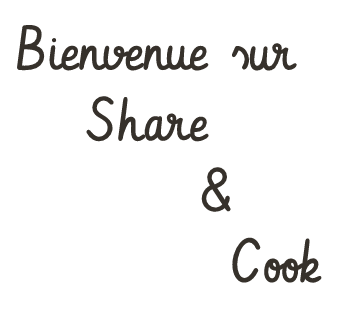
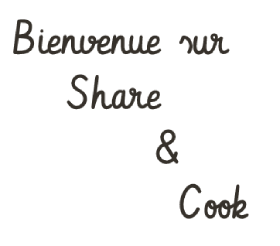
update site

diff --git a/Public/css/style.css b/Public/css/style.css
@@ -2,3 +2,25 @@
     background-color: #ff735c;
     border-color: #f8f9fa
 }
+
+.btn-primary:hover{
+    background-color: #f5573d;
+    border-color: #f8f9fa
+}
+
+.logo{
+    width: 110px;
+}
+
+.img-header-left{
+    padding-left: 120px;
+}
+
+.img-recipe{
+        max-width: 60%;
+}
+
+hr{
+    margin-left: 30%;
+    margin-right: 30%;
+}

diff --git a/Views/spaceAdmin.php b/Views/spaceAdmin.php
@@ -1,0 +1,56 @@
+<?php require('header.php') ?>
+
+<h2 class="text-center">Espace administrateur</h2>
+
+<div class="container">
+    <div class="row">
+        <div class="col-12">
+            <form action="?action=addRecipe" method="post">
+                <div class="pt-2">
+                    <label for="title" class="form-label">Titre</label><br />
+                    <input type="text" id="title" name="title" class="form-control" required />
+                </div>
+                <div class="pt-2">
+                    <label for="description" class="form-label">Description</label><br />
+                    <textarea id="description" name="description" class="form-control" required></textarea>
+                </div>
+                <div class="pt-2">
+                    <label for="description" class="form-label">URL de l'image</label><br />
+                    <input type="text" id="description" name="image" class="form-control" required></input>
+                </div>
+                <div class="pt-2">
+                    <button type="submit" class="btn btn-warning mt-2">Créer une nouvelle recette</button>
+                </div>
+            </form>
+
+        </div>
+    </div>
+
+    <div class="row d-flex justify-content-center mt-4">
+        <h3 class="text-center my-5"> Gestion des recettes créées</h3>
+
+        <?php
+        while ($data = $recipes->fetch()) {
+
+        ?>
+            <div class="col-3 mx-4 my-3">
+                <!-- Cartes de recettes -->
+                <div class="card" style="width: 18rem;">
+                    <img src="<?= $data['image'] ?>" class="card-img-top img-fluid" alt="...">
+                    <div class="text-center py-3">
+                        <h5 class="card-title pb-2"> <?= utf8_encode($data['title']); ?></h5>
+                        <p class="fst-italic"><?= ($data['creation_date_fr']); ?></p>
+                        <a href="index.php?action=recipe&amp;id=<?= $data['id'] ?>" class="btn btn-primary btn-card my-1">Voir la recette</a>
+                        <a href="index.php?action=deleteRecipe&amp;id=<?= $data['id'] ?>" class="btn btn-primary btn-card  my-1">Supprimer</a>
+                        <a href="index.php?action=displayUpdateRecipe&amp;id=<?= $data['id'] ?>" class="btn btn-primary btn-card  my-1">Modifier</a>
+                    </div>
+                </div>
+            </div>
+        <?php
+        }
+        $recipes->closeCursor();
+        ?>
+    </div>
+</div>
+
+<?php require('footer.php') ?>

diff --git a/Views/header.php b/Views/header.php
@@ -7,7 +7,7 @@
   <meta name="viewport" content="width=device-width, initial-scale=1.0">
   <link href="https://cdn.jsdelivr.net/npm/bootstrap@5.1.3/dist/css/bootstrap.min.css" rel="stylesheet" integrity="sha384-1BmE4kWBq78iYhFldvKuhfTAU6auU8tT94WrHftjDbrCEXSU1oBoqyl2QvZ6jIW3" crossorigin="anonymous">
   <link rel="stylesheet" href="https://cdn.jsdelivr.net/npm/bootstrap-icons@1.7.2/font/bootstrap-icons.css">
-  <link rel="stylesheet" href="public/css/style.css">
+  <link rel="stylesheet" href="Public/css/style.css">
   <title>Share Cooking</title>
 </head>
 
@@ -16,11 +16,11 @@
   <div class="container-fluid p-3 bg-warning ">
     <nav class=" container d-flex flex-wrap align-items-center justify-content-center justify-content-lg-start">
       <a href="/" class="d-flex align-items-center mb-2 mb-lg-0 text-decoration-none">
-        <img class="img-fluid" src="Public/img/logo-small.png" alt="">
+        <img class="logo" src="Public/img/logo-small.png" alt="">
       </a>
 
       <ul class="nav col-12 col-lg-auto me-lg-auto mb-2 justify-content-center mb-md-0">
-        <li><a href="index.php" class="nav-link px-2 text-dark fw-bold">Home</a></li>
+        <li><a href="index.php" class="nav-link px-2 text-dark fw-bold">Accueil</a></li>
 
         <?php
         if (isset($_SESSION['adminId'])) {
@@ -33,19 +33,11 @@
         ?>
       </ul>
 
-      <form class="col-12 col-lg-auto mb-3 mb-lg-0 me-lg-3">
-        <input type="search" class="form-control form-control-dark" placeholder="Search..." aria-label="Search">
-      </form>
-
       <div class="text-end">
         <?php
         if (isset($_SESSION['adminId'])) {
         ?>
-          <a class="btn me-2 fw-bold" href="?action=logout" role="button">Logout</a>
-        <?php
-        } else {
-        ?>
-          <a href="index.php?action=displayLogin" class="btn btn-light fw-bold">Login</a>
+          <a class="btn me-2 fw-bold" href="?action=logout" role="button">Se déconnecter</a>
         <?php
         }
         ?>
@@ -58,7 +50,7 @@
       <div class="row">
         <div class="col-md-6">
           <!-- font vibur ! -->
-          <img class="img-fluid" src="Public/img/welcome.png" alt="">
+          <img class="img-fluid img-header-left" src="Public/img/welcome.png" alt="">
         </div>
 
         <div class="col-md-6">

diff --git a/Views/updateRecipe.php b/Views/updateRecipe.php
@@ -1,25 +1,25 @@
 <?php require('header.php') ?>
 
-<h2 class="text-center">Mettre à jour une recette</h2>
+<h2 class="text-center mb-4">Mettre à jour une recette</h2>
 
 <div class="container">
     <div class="row">
         <div class="col-12">
             <form action="?action=updateRecipe&id=<?= $_GET['id'] ?>" method="post">
-                <div>
-                    <label for="title" class="form-label">Titre</label><br />
+                <div class="mt-3">
+                    <label for="title" class="form-label fw-bolder">Titre</label><br />
                     <input type="text" id="title" name="title" class="form-control" value="<?= $recipe['title'] ?>" />
                 </div>
-                <div>
-                    <label for="description" class="form-label">Description</label><br />
-                    <textarea id="description" name="description" class="form-control"><?= $recipe['description'] ?></textarea>
+                <div class="mt-3">
+                    <label for="description" class="form-label fw-bolder">Description</label><br />
+                    <textarea id="description" name="description" class="form-control" rows="15"><?= $recipe['description'] ?></textarea>
                 </div>
-                <div>
-                    <label for="description" class="form-label">URL de l'image</label><br>
+                <div class="mt-3">
+                    <label for="description" class="form-label fw-bolder">URL de l'image</label><br>
                     <input type="text" id="description" name="image" class="form-control" value="<?= $recipe['image'] ?>"></input>
                 </div>
                 <div>
-                    <button type="submit" class="btn btn-warning mt-2">Créer</button>
+                    <button type="submit" class="btn btn-warning mt-2">Modifier</button>
                 </div>
             </form>
 

diff --git a/Views/recipe.php b/Views/recipe.php
@@ -4,15 +4,19 @@
     <p><a href="index.php" class="btn btn-primary">Retour</a></p>
 
     <div class="row my-4">
-        <div class="col-md-6">
-            <img src="<?= $recipe['image']; ?>" alt="" class="img-fluid">
+        <div class="col-12 text-center">
+            <img src="<?= $recipe['image']; ?>" alt="" class="img-fluid img-recipe shadow">
         </div>
-        <div class="col-md-6">
+    </div>
+
+    <div class="row">
+        <div class="col-12 text-center">
             <h2>
                 <?= htmlspecialchars($recipe['title']) ?>
             </h2>
-            <em>le <?= $recipe['creation_date_fr'] ?></em>
-            <p>
+            <HR>
+            <em>Créée le <?= $recipe['creation_date_fr'] ?></em>
+            <p class="mt-4">
                 <?= nl2br(htmlspecialchars($recipe['description'])) ?>
             </p>
         </div>

diff --git a/Views/home.php b/Views/home.php
@@ -6,15 +6,15 @@
     ?>
 
         <div class="row my-4">
-            <div class="col-md-6">
+            <div class="col-md-7">
                 <img src="<?= $data['image']; ?>" alt="" class="img-fluid">
             </div>
-            <div class="col-md-6">
-                <h2>
+            <div class="col-md-5">
+                <h2 class="mt-5">
                     <?= htmlspecialchars($data['title']); ?>
                 </h2>
                 <em> le <?= $data['creation_date_fr']; ?> </em><br>
-                <a class="btn btn-primary" href="index.php?action=recipe&amp;id=<?= $data['id'] ?>" role="button">Voir la recette</a>
+                <a class="btn btn-primary my-3" href="index.php?action=recipe&amp;id=<?= $data['id'] ?>" role="button">Voir la recette</a>
             </div>
         </div>
     <?php

diff --git a/Controller/generalController.php b/Controller/generalController.php
@@ -29,19 +29,19 @@ function deleteRecipe()
 {
     deleteOneRecipe($_GET['id']);
 
-    require('Views/addRecipe.php');
+    require('Views/spaceAdmin.php');
 }
 
 function displayAddRecipe()
 {
     $recipes = getAllRecipes();
-    require('Views/addRecipe.php');
+    require('Views/spaceAdmin.php');
 }
 
 function updateRecipe()
 {
     updateOneRecipe($_GET['id'], $_POST['title'], $_POST['description'], $_POST['image']);
-    require('Views/addRecipe.php');
+    header('Location: ?action=displayAddRecipe');
 }
 
 function displayLogin()
@@ -81,7 +81,7 @@ switch ($action) {
 
         break;
 
-    case 'displayLogin':
+    case 'shareCookSpaceAdmin':
         displayLogin();
         break;
 
@@ -126,6 +126,7 @@ switch ($action) {
 
     case 'updateRecipe':
         updateRecipe();
+
         break;
 
     default:

diff --git a/Views/footer.php b/Views/footer.php
@@ -1,16 +1,7 @@
 <div class="container-fluid py-5 mt-4 bg-dark">
   <footer class="container d-flex flex-wrap justify-content-between align-items-center py-3 my-4">
-    <div class="col-md-4 d-flex align-items-center">
-      <a href="/" class="mb-3 me-2 mb-md-0 text-muted text-decoration-none lh-1">
-
-      </a>
-      <span class="text-white">© 2021 Company, Inc</span>
+    <div class="col-12 text-center">
+      <p class="text-white">Share With love <span>&#10084;</span> © 2022</p>
     </div>
-
-    <ul class="nav col-md-4 justify-content-end list-unstyled d-flex">
-      <li class="ms-3"><a class="text-muted" href="#"></a></li>
-      <li class="ms-3"><a class="text-muted" href="#"></li>
-      <li class="ms-3"><a class="text-muted" href="#"></li>
-    </ul>
   </footer>
 </div>

diff --git a/Models/recipesModel.php b/Models/recipesModel.php
@@ -7,7 +7,7 @@ function getAllRecipes()
 
     $db = dbConnect();
 
-    $req = $db->query('SELECT id, title, description, image, DATE_FORMAT(creation_date, \'%d/%m/%Y à %Hh%imin%ss\') AS creation_date_fr FROM recipes ORDER BY creation_date DESC LIMIT 0, 5');
+    $req = $db->query('SELECT id, title, description, image, DATE_FORMAT(creation_date, \'%d/%m/%Y \') AS creation_date_fr FROM recipes ORDER BY creation_date DESC LIMIT 0, 5');
 
     return $req;
 }

diff --git a/Views/login.php b/Views/login.php
@@ -11,7 +11,7 @@ include_once('header.php');
             <label for="password" class="form-label">Mot de passe</label>
             <input type="password" class="form-control" id="password" name="password" required>
         </div>
-        <button type="submit" class="btn btn-warning">Envoyer</button>
+        <button type="submit" class="btn btn-warning">Se connecter</button>
         <?php
         if (isset($errorMsg)) {
 

diff --git a/Models/adminModel.php b/Models/adminModel.php
@@ -6,7 +6,7 @@ function getAdmin($username, $password)
 {
 
   $db = dbConnect();
-  $admin = $db->prepare('SELECT id FROM users WHERE username = :username AND password =  :password');
+  $admin = $db->prepare('SELECT id FROM users WHERE username = :username AND password =  MD5(:password)');
   $admin->execute(
     array(
       "username" => $username,
